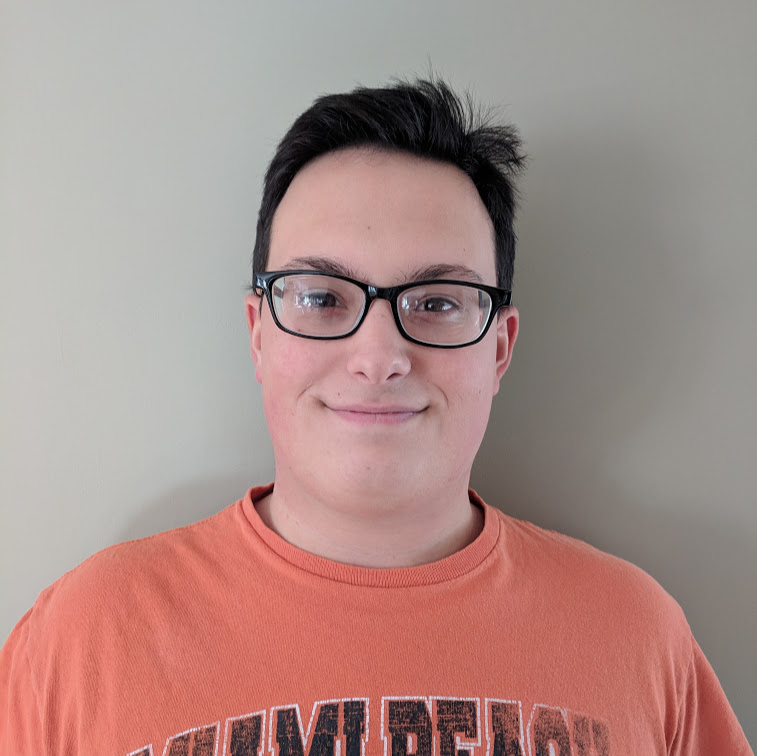
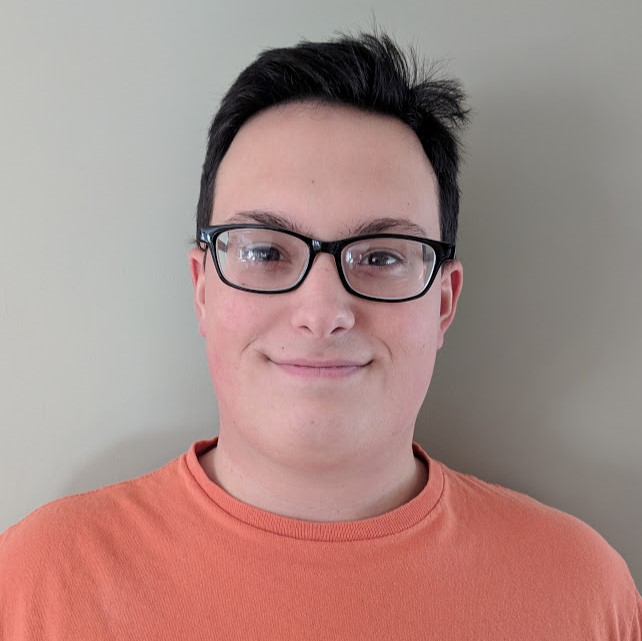
Updated navbar design and profile photo

diff --git a/navbar.html b/navbar.html
@@ -4,11 +4,12 @@
 </head>
 <nav>
 	<ul>
-		<li><a href="index.html">Home</a></li><li><a>|</a></li>
-		<li><a href="achievements.html">My Achievements</a></li><li><a>|</a></li>
-		<li><a href="skills.html">My Skills</a></li><li><a>|</a></li>
-		<li><a href="academics.html">Academics</a></li><li><a>|</a></li>
-		<li><a href="extracurriculars.html">Extracurriculars</a></li><li><a>|</a></li>
+        <li><a target="_blank" href="https://github.com/KyleGoetke"><img src="images/logo.png"></img></a></li><li><a>|</a></li>
+        <li><a href="index.html">Home</a></li>
+		<li><a href="achievements.html">My Achievements</a></li>
+		<li><a href="skills.html">My Skills</a></li>
+		<li><a href="academics.html">Academics</a></li>
+		<li><a href="extracurriculars.html">Extracurriculars</a></li>
 		<li><a href="experience.html">Experiences</a></li>
 	</ul>
 </nav>

diff --git a/css/styles.css b/css/styles.css
@@ -46,6 +46,12 @@ nav a:hover {
 	text-decoration: none;
 }
 
+nav img {
+    height: 100%;
+    margin-left: 0;
+    padding-left: 0;
+}
+
 footer {
     position: relative;
     height: 40px;
